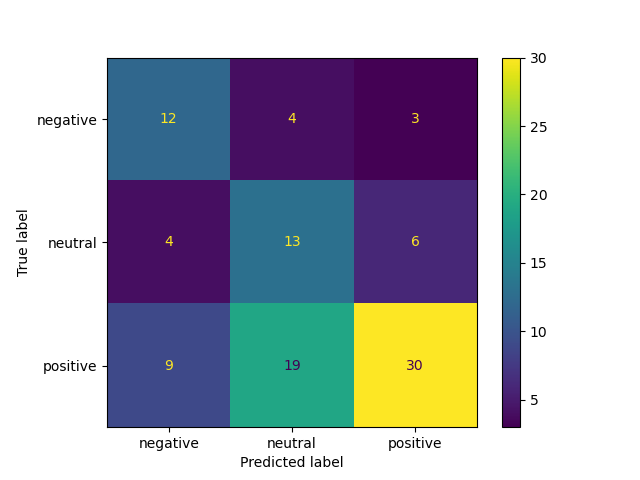
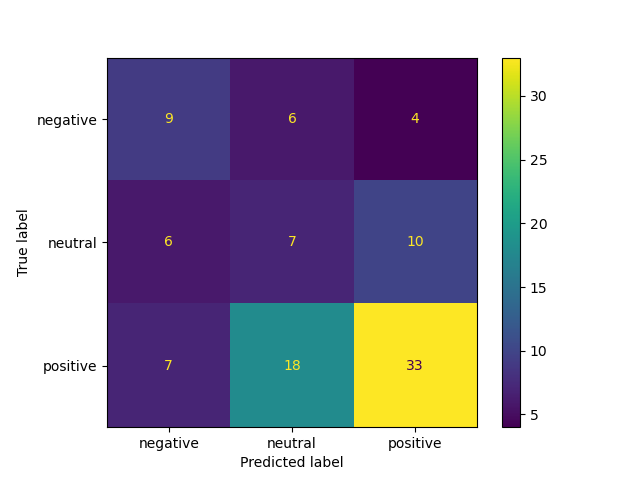
fancy model done

diff --git a/G_instactivism_sentiment_analysis_fancy.py b/G_instactivism_sentiment_analysis_fancy.py
@@ -24,15 +24,19 @@ from sklearn import preprocessing
 
 # define functions
 def getData(fname):
+    '''Gets the texts and sentiment label from a .csv file.
+        Returns 1) texts as a pandas series, and 2) labels, also as a pandas series
+    '''
     df = pd.read_csv(fname)
     # get texts & labels
     texts = df["description"] 
-    print("Texts: "+str(type(texts[0])))
     trueLabs = df["sentiment"]
-    print("Labels: "+str(type(trueLabs)))
     return texts, trueLabs
 
 def cleanDoc(oneDoc: str): 
+    '''Removes punctuation (except for exclaimation points) and whitespace from a text string
+        Returns a clean text string
+    '''
     characters = "<>#_/-.,:;@"
     for c in characters:
         oneDoc = oneDoc.replace(c, " ")
@@ -40,13 +44,19 @@ def cleanDoc(oneDoc: str):
     return cleaned
 
 def cleanAllTexts(allDocs: list):
+    '''Removes punctuation (except !) and whitespace from a list of text strings
+        Returns a list of clean text strings
+    '''
     cleanTexts = []
     for i in range(len(allDocs)):
         clean = cleanDoc(allDocs[i])
         cleanTexts.append(clean) 
     return cleanTexts
 
-def tokenizeDoc(oneDoc: str): # cleans AND tokenizes
+def tokenizeDoc(oneDoc: str): 
+    '''Cleans and tokenizes a text string
+        Returns a list of tokens
+    '''
     tokens = cleanDoc(oneDoc).lower().split(" ")
     for t in tokens:
         if len(t)<2 and t!="!":
@@ -54,6 +64,9 @@ def tokenizeDoc(oneDoc: str): # cleans AND tokenizes
     return tokens
 
 def tokenizeAll(allDocs:list):
+    '''Cleans and tokenizes a list of text strings
+        Returns a list of lists of tokens
+    '''
     tokenized = []
     for i in range(len(allDocs)):
         tokens = tokenizeDoc(allDocs[i])
@@ -61,30 +74,30 @@ def tokenizeAll(allDocs:list):
     return tokenized
 
 def getVecLength(vecIn: list):
-    """This function computes the length of a vector.
+    """Computes the length of a vector.
         :param vecIn: a list representing a vector, one element per dimension.
         :return: the length of the vector.
     """
     total = 0
     for num in vecIn:
-        total += float(num)**2 # Here
+        total += float(num)**2 
     return total**(1/2)
 
 def normalizeVec(vecIn:list):
-    """This function normalizes a vector to unit length.
+    """Normalizes a vector to unit length.
         :param vecIn:  a list representing a vector, one element per dimension.
         :return: a list representing a vector, that has been normalized to unit length.
     """
     normVec = []
     for num in vecIn:
         if getVecLength(vecIn) > 0: # add if-else to deal with vectors of length 0
-            normVec.append(float(num)/getVecLength(vecIn)) #HERE ZeroDivisionError: float division by zero
+            normVec.append(float(num)/getVecLength(vecIn)) #HERE ZeroDivisionError: float division by zero (fixed)
         else:
             normVec.append(0)
     return normVec
 
 def dotProductVec(vecInA:list, vecInB:list):
-        """This method takes the dot product of two vectors.
+        """Takes the dot product of two vectors.
         :param vecInA, vecInB: two lists representing vectors,
             one element per dimension.
         :return: the dot product.
@@ -95,15 +108,17 @@ def dotProductVec(vecInA:list, vecInB:list):
         return dp
 
 def cosine(vecInA: list, vecInB: list):
-        """This method obtains the cosine between two vectors
-            (which is nominally the dot product of two vectors of unit length).
+        """Obtains the cosine between two vectors.
         :param vecInA, vecInB: two lists representing vectors, one element per dimension.
         :return: the cosine.
         """
-        cosAB = dotProductVec(normalizeVec(vecInA), normalizeVec(vecInB)) # here
+        cosAB = dotProductVec(normalizeVec(vecInA), normalizeVec(vecInB)) 
         return cosAB
 
 def loadGloveVectors(fname):
+    '''Loads vectors from a .txt file of pre-trained GloVe embeddings
+        Returns a dictionary 
+    '''
     gloVecs = {}
     with open(fname, 'r', encoding="utf-8") as glove:
         for line in glove:
@@ -116,13 +131,7 @@ def loadGloveVectors(fname):
     return gloVecs
 
 def computeCentroidVector(tokensIn:list, vecDict:dict):
-    """This method calculates the centroid vector from a list of
-        tokens. The centroid vector is the "average"
-        vector of a list of tokens.
-    #NOTE:  Special considerations:
-            - all tokens should be converted to lower case.
-            - if a vector isn't in the dictionary, it
-                shouldn't be a part of the average.
+    """Calculates the centroid vector from a list of tokens. 
         :param tokensIn: a list of tokens.
         :param vecDict: the vector library is a dictionary, 'vecDict',
             whose keys are tokens, and values are lists representing vectors.
@@ -145,6 +154,10 @@ def computeCentroidVector(tokensIn:list, vecDict:dict):
     return meanVec
 
 def selectGloVecs(gloveVectors: dict):
+    '''Selects positive, neutral and negative keys & values from a dictionary of 
+    pre-trained GloVe vectors to use for estimating sentiment of each word in a texts.
+        Returns a dictionary with a subset of positive, neutral, and negative word vectors. 
+    '''
     words = ["yes", "positive", "good", "agree", "like", 
             "maybe", "neutral", "okay", "alright", "middle",
             "no", "negative", "bad", "disagree", "dislike"]
@@ -155,6 +168,9 @@ def selectGloVecs(gloveVectors: dict):
     return myGloVes
 
 def getCSDicts(texts:list, gloves:dict, selected:dict):
+    '''Gets a list of one dictionary per text. Each dictionary contains the cosine similarity of 
+    the centroid vector of each text and a selected positive, neutral or negative GloVe vector.
+    '''
     csDicts = []
     for txt in texts:
         toks = tokenizeDoc(txt) 
@@ -168,63 +184,49 @@ def getCSDicts(texts:list, gloves:dict, selected:dict):
     return csDicts
 
 def scoresToArray(csDictList:list): #selected:dict, 
-    """     # for each text, add each cosine similarity value from csDicts to vecArray 
-    allScores = []                  
-    for k in selected.keys(): # NEED TO REVERSE LOOPS so list has one tuple for each doc instead of a list for each key
-        scores = []     
-        for d in csDictList:
-            scores.append(d[k]) # HERE TypeError: only integer scalar arrays can be converted to a scalar index when converting d[k] to list
-        allScores.append(scores)
-    #newArray = [] """
+    """ Takes a dictionary with positive neutral and negative cosine similarity scores 
+            Returns a list of lists with the scores, one for each text"""
     allScores = []
     for d in csDictList:
         allScores.append(list(d.values()))
     return allScores 
 
-def getSentimentScores(csDict, keys):
-    score = 0
-    for k in keys:
-        score += csDict[k] # divide by number of keys?
-    return score
 
 def main():
     # get pre-trained GloVe embeddings
-    fname = "data/glove.twitter.27B.100d.txt" #"data/glove.twitter.27B.50d.txt" # #"data/glove.twitter.27B.25d.txt"
+    fname = "data/glove.twitter.27B.50d.txt" #"data/glove.twitter.27B.50d.txt"
     gloVecs = loadGloveVectors(fname) # takes a bit to load
 
-    # select a few positive,  neutral and negative word embeddings to compare to centroids ?
+    # select a few positive, neutral and negative word embeddings to compare to centroids
     myGloVes = selectGloVecs(gloVecs)
 
-    # get raining texts & labels
+    # get training texts & labels
     trainTexts, trainLabs = getData("data/train_instactivism_60.csv")
 
     # get dictionary of centroid vectors of tokenized descriptions for each text
     csDicts = getCSDicts(trainTexts, gloVecs, myGloVes) # list of dicts TRAINING
-    print(len(csDicts))
-    print(csDicts[0])
+
     # for each text, add each cosine similarity value from csDicts to vecArray 
-    scoreArray = np.array(scoresToArray(csDicts)) # TRAINING
-    print(len(scoreArray)) 
-    print(len(scoreArray[1])) 
+    scoreArray = np.array(scoresToArray(csDicts)) # TRAIN
 
     # encode labels
     le = preprocessing.LabelEncoder()
     encodedLabs = le.fit_transform(trainLabs)
 
     # train model
-    lrc = LogisticRegression(class_weight = "balanced") # make sure this is always training on train set
-    lrModel = lrc.fit(scoreArray, encodedLabs)
+    lrc = LogisticRegression(class_weight = "balanced") 
+    lrModel = lrc.fit(scoreArray, encodedLabs) # TRAIN
 
     # read in validation or test set and get texts and labels for evaluation  
     #validateDf "data/validate_instactivism_20.csv"
     #testDf "data/test_instactivism_20.csv"
-    evalData = "data/validate_instactivism_20.csv" # change texts
+    evalData = "data/test_instactivism_20.csv" # change test texts
     evalTexts, evalLabs = getData(evalData) # EVAL
 
     csDictsEval = getCSDicts(evalTexts, gloVecs, myGloVes) #EVAL
     scoreArrayEval = np.array(scoresToArray(csDictsEval))
 
-    numLabs = lrModel.predict(scoreArrayEval) # TRAIN
+    numLabs = lrModel.predict(scoreArrayEval) # EVAL
     predLabs = le.inverse_transform(numLabs)
 
     cm = confusion_matrix(evalLabs, predLabs, labels=["negative", "neutral", "positive"]) #, normalize="true"
@@ -233,7 +235,7 @@ def main():
     plt.show()
 
     # get accuracy, f1, precision and recall
-    accuracy = accuracy_score(evalLabs, predLabs) # TRAIN
+    accuracy = accuracy_score(evalLabs, predLabs) # EVAL
     print("Accuracy: " + str(accuracy))
     f1 = f1_score(evalLabs, predLabs, average = "macro") 
     print("F1: " + str(f1))
